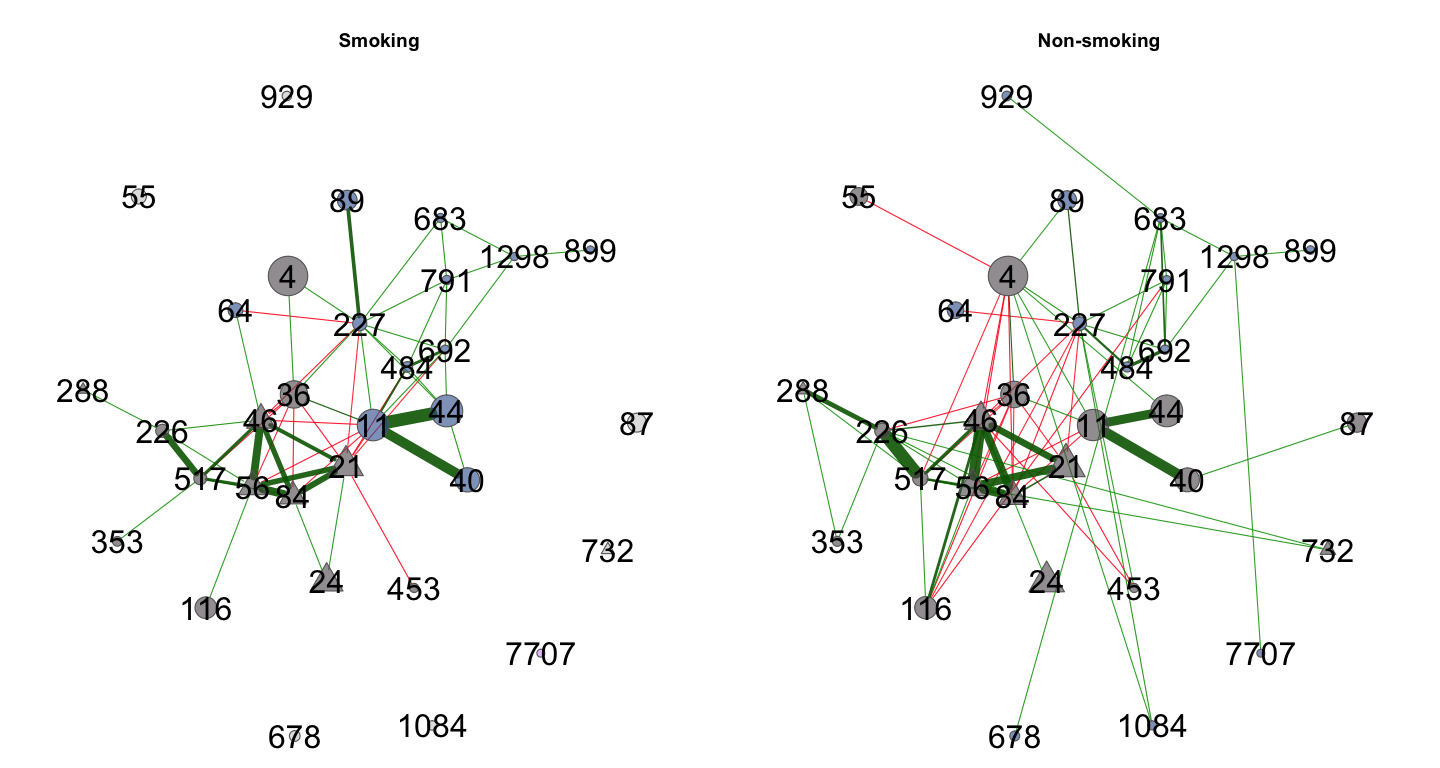
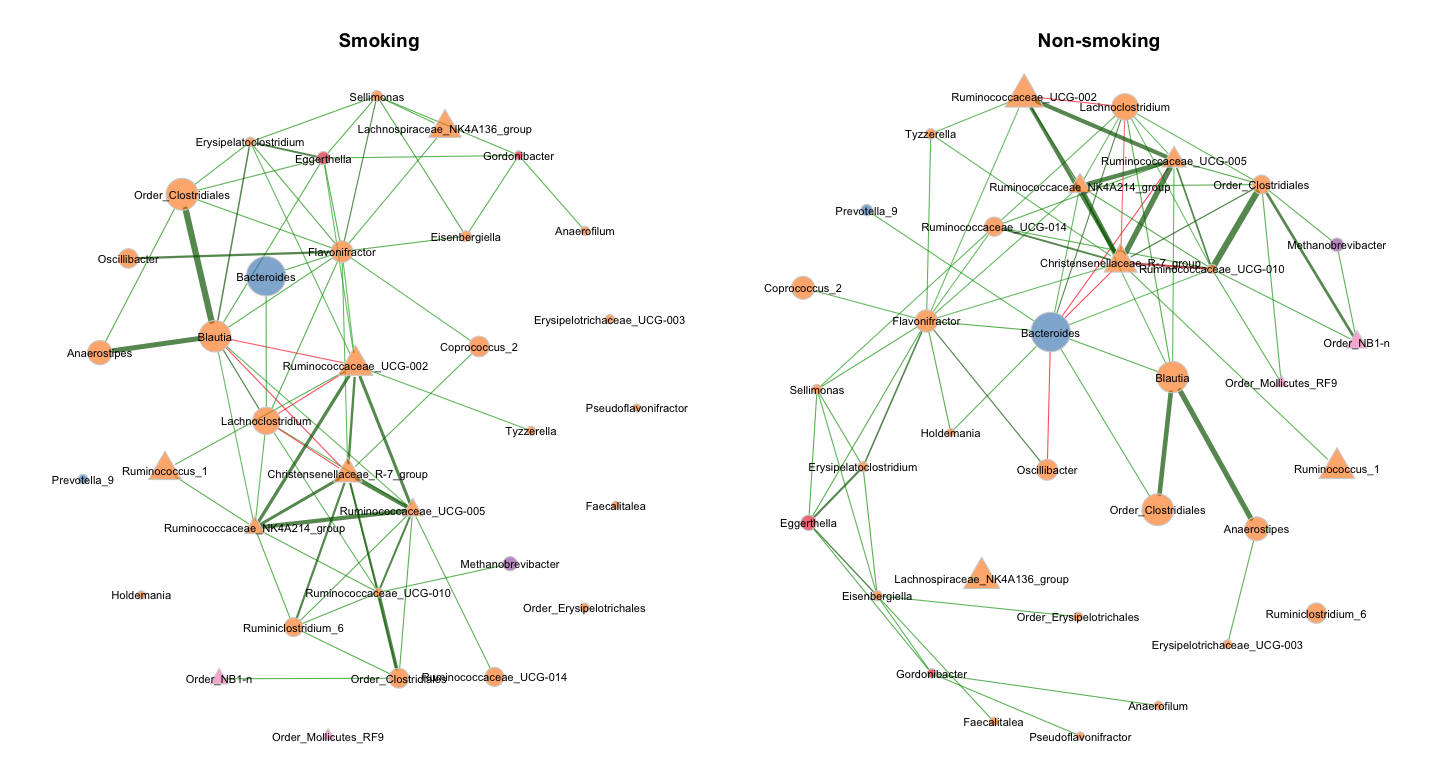
zoomed connected comp.

diff --git a/5_networks/5.2.1_Networks_viz_Gen_smoke.md b/5_networks/5.2.1_Networks_viz_Gen_smoke.md
@@ -63,44 +63,35 @@ names(shapeVec) <- names(phyl_ps_prune)
 
 plot_props <- plot(props_W, 
      layout = "spring",
-     sameLayout = TRUE, layoutGroup = 1, 
+     # sameLayout = TRUE, layoutGroup = 1, 
      labels = FALSE,
-     # labelScale = TRUE,
-     # featVecCol = phyl_ps_prune,
      nodeColor = "colorVec",
      colorVec = phylcol_names,
-     nodeTransp = 20,
-     borderCol = "gray40", highlightHubs = FALSE, 
-     nodeSize = "clr", cexNodes = .5, 
-     # cexNodes = 1, 
-     # nodeSizeSpread = 3,
-     cexTitle = 2,
+     nodeTransp = 40,
+     borderCol = "lightgray", highlightHubs = FALSE, 
+     nodeSize = "clr", cexNodes = 1, 
+     cexTitle = 1,
      edgeTranspLow = 30, 
      edgeTranspHigh = 30,
-     # nodeShape = c("circle", "triangle","square","diamond"),
      nodeShape = c("circle", "triangle"),
      featVecShape = shapeVec,
      rmSingles = "inboth",
      mar = c(6,5,3,2), groupNames = c("Smoking", "Non-smoking"))
 legend("top", 
-       inset = .05, title = "phylum:",
+       inset = .04, title = "phylum:",
        legend=levels(phyl_ps_prune), ncol = 2,
        col=phylcol, pt.bg = phylcol, bty = "n", pch=16) 
 legend("bottom", 
-       inset = .13, 
+       inset = .2, 
        title = "weights:",
        legend=c("+","-"), lty = 1, lwd = 2,
        col=c("darkgreen","red"), bty="n", horiz = TRUE) 
 legend("bottom", 
-       inset = .19, 
+       inset = .28, 
        title = "differentially abundant:",
        legend=c("Genus"), 
        pch = c(2,0,5), 
        bty="n", horiz = FALSE) 
-legend("bottom", 
-       inset = .1,
-       legend = "node size: median raw counts",
-       bty="n", horiz = TRUE) 
 ```
 
 ![](5.2.1_Networks_viz_Gen_smoke_files/figure-gfm/unnamed-chunk-7-1.png)<!-- -->
@@ -237,9 +228,13 @@ legend(x=.1, y=-1.1, legend=legend_cats$size_text, pt.cex=legend_cats$size_circl
 
 ![](5.2.1_Networks_viz_Gen_smoke_files/figure-gfm/unnamed-chunk-11-1.png)<!-- -->
 
-### Module 1 split (non-smoking)
+### Zoom connected component
 
 ``` r
+names_clust <- as.character(c(names(props_W$clustering$clust1)[which(props_W$clustering$clust1 %in% c(1,2))],
+                            names(props_W$clustering$clust2)[which(props_W$clustering$clust2 %in% c(1,2))]))
+names_clust <- unique(names_clust)
+
 labels_1 <- as.factor(tax_table(ps_Genus_prune)[, 'Genus'])
 names(labels_1) <- rownames(tax_table(ps_Genus_prune)[, 'Genus'])
 
@@ -248,33 +243,30 @@ labels_1[is.na(labels_1)] <- paste0("Order_", unname(tax_table(ps_Genus_prune)[i
 labels_1 <- as.character(labels_1)
 names(labels_1) <- rownames(tax_table(ps_Genus_prune)[, 'Genus'])
 
-order_labels <- plot_zoom$labels$labels1 ## save the ordered labels and then replug in figure above 
-
 plot(props_W, 
      # sameLayout = TRUE, layoutGroup = 2, 
-     repulsion = .8,
+     repulsion = .7,
      # charToRm = "Seq",
      labels = labels_1[names_clust],
      labelFont = 1, 
      cexLabels = .7,
      labelScale = FALSE,
      featVecCol = phyl_ps_prune[names_clust],
-     # nodeColor = "feature",
      nodeColor = "colorVec",
-     colorVec = list(phylcol_names[names_clust],
-                  phylcol_names[names_clust]),
-     sameClustCol = FALSE,
-     borderCol = "gray40", highlightHubs = FALSE,
-     nodeSize = "clr", cexNodes = 1.5, nodeTransp = 40,
+     colorVec = phylcol_names[names_clust],
+     borderCol = "lightgray", highlightHubs = FALSE,
+     nodeSize = "clr", cexNodes = 1, 
+     nodeTransp = 40,
      nodeFilter = "names",
      nodeShape = c("circle", "triangle"),
      featVecShape = shapeVec[names_clust],
      nodeFilterPar = names_clust,
      edgeTranspLow = 30, edgeTranspHigh = 30,
+     edgeWidth = .5,
      groupNames = c("Smoking", "Non-smoking"))
 ```
 
-![](5.2.1_Networks_viz_Gen_smoke_files/figure-gfm/unnamed-chunk-14-1.png)<!-- -->
+![](5.2.1_Networks_viz_Gen_smoke_files/figure-gfm/unnamed-chunk-13-1.png)<!-- -->
 
 ### Correlation structure (non-smoking)
 
@@ -292,4 +284,4 @@ corrplot(cor_1, method = "color", tl.col = "grey", mar=c(0,0,5,0),
          col = col1(100), title = "Non-smoking")
 ```
 
-![](5.2.1_Networks_viz_Gen_smoke_files/figure-gfm/unnamed-chunk-15-1.png)<!-- -->
+![](5.2.1_Networks_viz_Gen_smoke_files/figure-gfm/unnamed-chunk-14-1.png)<!-- -->

diff --git a/5_networks/5.2.1_Networks_viz_Gen.md b/5_networks/5.2.1_Networks_viz_Gen.md
@@ -317,7 +317,7 @@ legend(x=.1, y=-1.1, legend=legend_cats$size_text, pt.cex=legend_cats$size_circl
 
 ![](5.2.1_Networks_viz_Gen_files/figure-gfm/unnamed-chunk-9-1.png)<!-- -->
 
-#### Big modules structure
+#### Zoom connected component
 
 ``` r
 names_clust <- as.character(c(names(props_W$clustering$clust1)[which(props_W$clustering$clust1 %in% c(3))],
